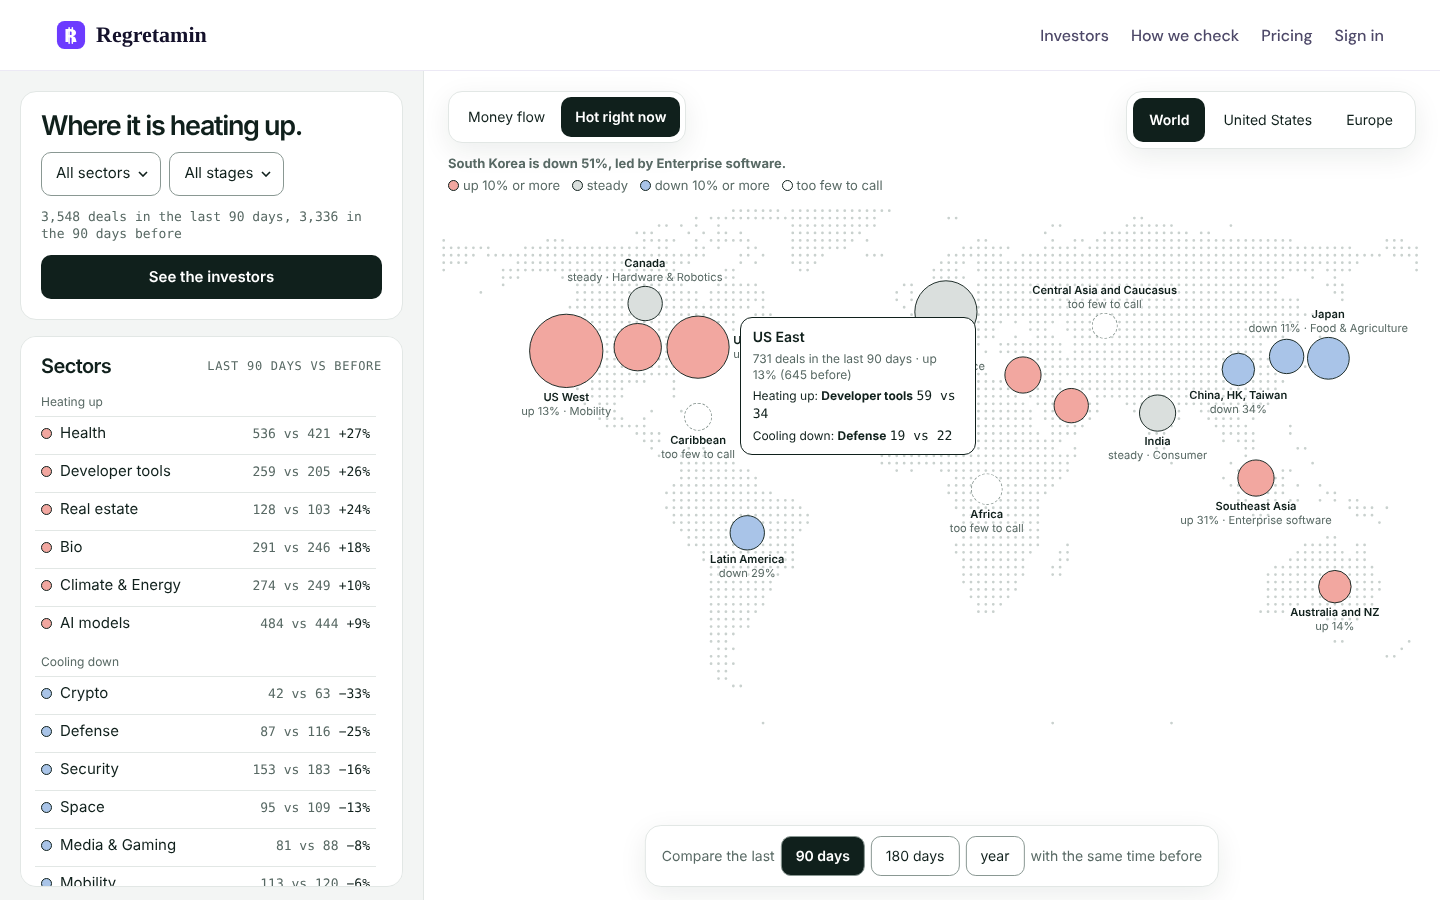
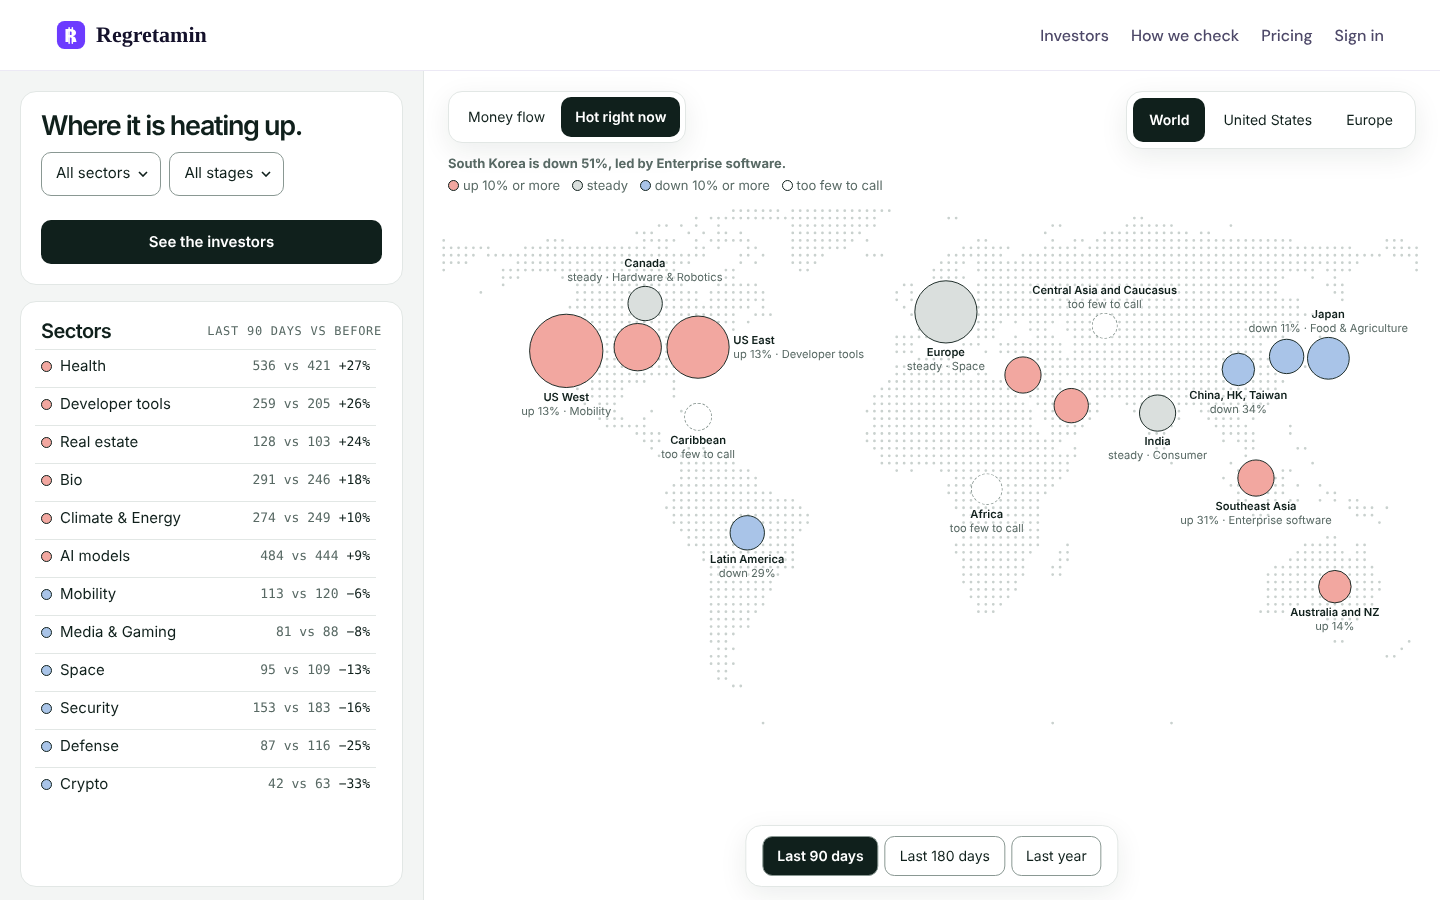
Map, Hot right now: less text, and the sector card follows the sector filter
- removed the deal-count line under the filters, the 'Heating up' / 'Cooling down'
  sub-headings, 'Nothing clear.' and the words around the period buttons, which
  now read 'Last 90 days', 'Last 180 days', 'Last year'
- one sector list, strongest rise to strongest fall; chosen sectors come first
- fix: choosing a sector in the filter menu now updates the sector card at once
  (it used to update only when the period changed)

Claude-Session: https://claude.ai/code/session_01MSMNJWpST3rY1PfuMMG21o

diff --git a/launch/js/map.js b/launch/js/map.js
@@ -77,7 +77,7 @@
 <aside class="vm-card vm-side" id="vm-side"></aside></div>
 <div class="vm-card vm-views" role="group" aria-label="View"><button type="button" data-view="flow">Money flow</button><button type="button" data-view="hot">Hot right now</button></div>
 <div class="vm-card vm-zoom" role="group" aria-label="Zoom to">${LEVELS.map(([k, t]) => `<button type="button" data-level="${k}">${t}</button>`).join('')}</div>
-<div class="vm-card vm-dock"><div class="vm-period" role="group" aria-label="Compare"><span>Compare the last</span>${[[90, '90 days'], [180, '180 days'], [365, 'year']].map(([d, t]) => `<button type="button" data-days="${d}">${t}</button>`).join('')}<span>with the same time before</span></div><button type="button" class="vm-play" id="vm-play" aria-label="Play"></button><button type="button" class="vm-all" id="vm-all">All years</button>
+<div class="vm-card vm-dock"><div class="vm-period" role="group" aria-label="Compare the last period with the same time before">${[[90, 'Last 90 days'], [180, 'Last 180 days'], [365, 'Last year']].map(([d, t]) => `<button type="button" data-days="${d}">${t}</button>`).join('')}</div><button type="button" class="vm-play" id="vm-play" aria-label="Play"></button><button type="button" class="vm-all" id="vm-all">All years</button>
   <div class="vm-time"><div class="vm-track"><div class="vm-fill" id="vm-fill"></div>${Array.from({ length: NQ + 1 }, (_, i) => `<i class="${i % 4 ? '' : 'vm-y'}" style="left:${i / NQ * 100}%"></i>`).join('')}
     <input type="range" id="vm-q0" min="0" max="${NQ}" step="1" aria-label="From quarter"><input type="range" id="vm-q1" min="0" max="${NQ}" step="1" aria-label="To quarter"></div>
     <div class="vm-years">${Array.from({ length: Math.ceil(NQ / 4) }, (_, i) => `<span style="left:${i * 4 / NQ * 100}%;width:${Math.min(4, NQ - i * 4) / NQ * 100}%">${2021 + i}</span>`).join('')}</div></div></div>
@@ -103,7 +103,7 @@
     const cb = e.target.closest('.vm-menu input'); if (!cb) return;
     const k = cb.closest('.vm-pick').dataset.pick, v = cb.dataset.v;
     S[k] = !v ? [] : cb.checked ? S[k].concat(v) : S[k].filter((x) => x !== v);
-    closeList(); drawPicks(); refresh();
+    closeList(); drawPicks(); refresh().then(() => { if (!S.list) drawSide(); });
   });
 
   // ---------- time line
@@ -326,7 +326,7 @@ ${S.sectors.length === 1 ? '' : top.map(([n, v], j) => `<span class="vm-tr"><i s
     const sec = S.sectors.length === 1 ? S.sectors[0].toLowerCase() : S.sectors.length ? 'these sectors' : '';
     $('#vm-h1').textContent = sec ? `Where ${sec} ${S.sectors.length === 1 ? 'is' : 'are'} heating up${where}.` : `Where it is heating up${where}.`;
     S.countId = (S.countId || 0) + 1; S.shown = null;
-    $('#vm-based').textContent = `${num(t.deals)} deals in the last ${perText()}, ${num(t.prev)} in the ${perText()} before`;
+    $('#vm-based').textContent = '';  // the founder found the deal counts here unnecessary in this view
     // one plain sentence about the biggest move among places with enough deals to trust
     const big = (stage._rows || []).filter((p) => (p.tone === 'up' || p.tone === 'down') && p.d + p.pv >= 100).sort((a, b) => Math.abs(b.pct) - Math.abs(a.pct))[0];
     $('#vm-legend').innerHTML = (big ? `<b>${esc(big.n)} is ${big.tone} ${Math.abs(big.pct)}%${big.tone === 'up' && big.hot ? ', led by ' + esc(big.hot[0]) : big.tone === 'down' && big.cold ? ', led by ' + esc(big.cold[0]) : ''}.</b> ` : '')
@@ -385,11 +385,13 @@ ${COL ? placeFacts(L.place) : ''}<div class="vm-rows">${!L.data ? '' : L.data.fi
       const memo = S.days + '|' + S.level + '|' + S.stages.join(','); S.secMemo = S.secMemo || {};
       if (!S.sectors.length && S.data && S.data.sectors) S.secMemo[memo] = S.data.sectors[S.level] || [];
       const rows = (S.secMemo[memo] || ((S.data || {}).sectors || {})[S.level] || []).filter(([, n, p]) => n + p >= 20 && p > 0).map(([name, n, p]) => ({ name, n, p, pct: Math.round((n - p) / p * 100) }));
-      const up = rows.filter((r) => r.pct > 0).sort((a, b) => b.pct - a.pct).slice(0, 6), down = rows.filter((r) => r.pct < 0).sort((a, b) => a.pct - b.pct).slice(0, 6);
-      const line = (r) => `<button type="button" class="vm-sec${S.sectors.includes(r.name) ? ' vm-secon' : ''}" data-s="${esc(r.name)}"><i class="${r.pct > 0 ? 'vm-up' : 'vm-down'}"></i><span>${esc(r.name)}</span><span class="vm-pc vm-mu">${num(r.n)} vs ${num(r.p)}</span><span class="vm-pc">${r.pct > 0 ? '+' : '−'}${Math.abs(r.pct)}%</span></button>`;
-      side.innerHTML = `<div class="vm-lh"><h2>Sectors</h2><span class="vm-tag">last ${perText()} vs before</span></div>${S.sectors.length ? '<button type="button" class="vm-link" id="vm-allsec">Show all sectors</button>' : ''}
-<span class="vm-mu vm-sub">Heating up</span>${up.map(line).join('') || '<span class="vm-mu">Nothing clear.</span>'}<span class="vm-mu vm-sub">Cooling down</span>${down.map(line).join('') || '<span class="vm-mu">Nothing clear.</span>'}`;
-      side.querySelectorAll('.vm-sec').forEach((b) => b.onclick = () => { S.sectors = S.sectors.length === 1 && S.sectors[0] === b.dataset.s ? [] : [b.dataset.s]; drawPicks(); refresh().then(drawSide); });
+      // chosen sectors come first, with their own numbers; then every other sector, from the strongest rise to the strongest fall
+      const mk = ([name, n, p]) => ({ name, n, p, pct: p > 0 ? Math.round((n - p) / p * 100) : null });
+      const chosen = S.sectors.length ? (((S.data || {}).sectors || {})[S.level] || []).map(mk).sort((a, b) => (b.pct || 0) - (a.pct || 0)) : [];
+      const others = rows.filter((r) => !S.sectors.includes(r.name)).sort((a, b) => b.pct - a.pct), rest = others.length > 12 ? others.slice(0, 6).concat(others.slice(-6)) : others;
+      const line = (r) => `<button type="button" class="vm-sec${S.sectors.includes(r.name) ? ' vm-secon' : ''}" data-s="${esc(r.name)}"><i class="${r.pct == null ? 'vm-few' : r.pct >= 0 ? 'vm-up' : 'vm-down'}"></i><span>${esc(r.name)}</span><span class="vm-pc vm-mu">${num(r.n)} vs ${num(r.p)}</span><span class="vm-pc">${r.pct == null ? '' : (r.pct >= 0 ? '+' : '−') + Math.abs(r.pct) + '%'}</span></button>`;
+      side.innerHTML = `<div class="vm-lh"><h2>Sectors</h2><span class="vm-tag">last ${perText()} vs before</span></div>${chosen.map(line).join('')}${S.sectors.length ? '<button type="button" class="vm-link" id="vm-allsec">Show all sectors</button>' : ''}${rest.map(line).join('')}`;
+      side.querySelectorAll('.vm-sec').forEach((b) => b.onclick = () => { S.sectors = S.sectors.includes(b.dataset.s) ? S.sectors.filter((x) => x !== b.dataset.s) : [b.dataset.s]; drawPicks(); refresh().then(drawSide); });
       const all = $('#vm-allsec'); if (all) all.onclick = () => { S.sectors = []; drawPicks(); refresh().then(drawSide); };
       return;
     }
